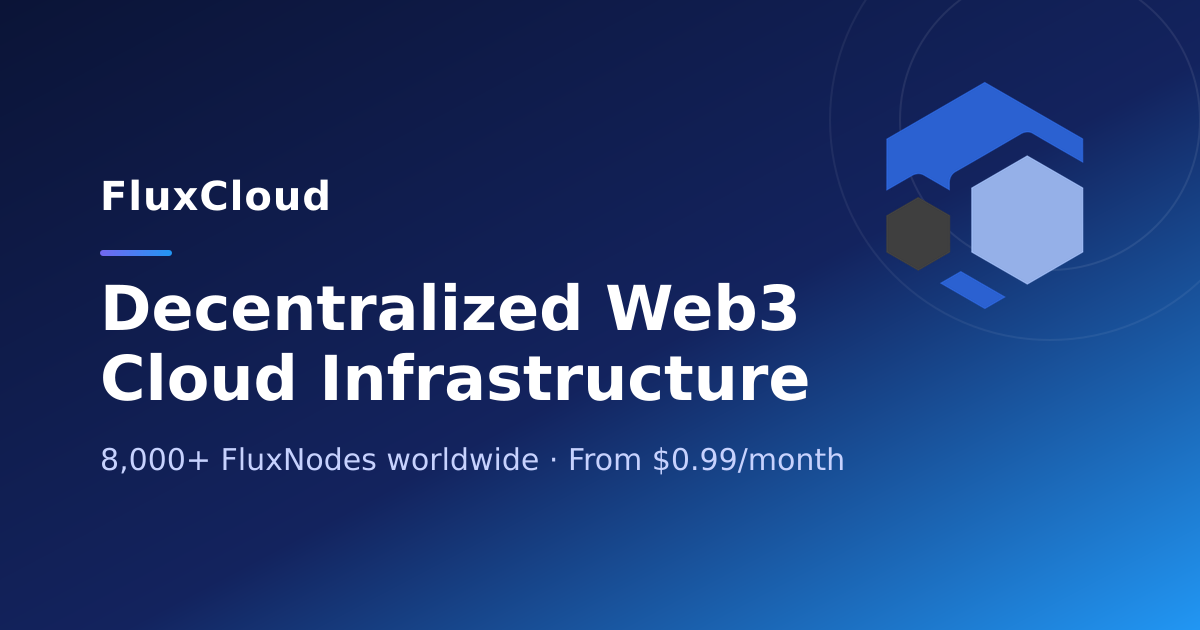
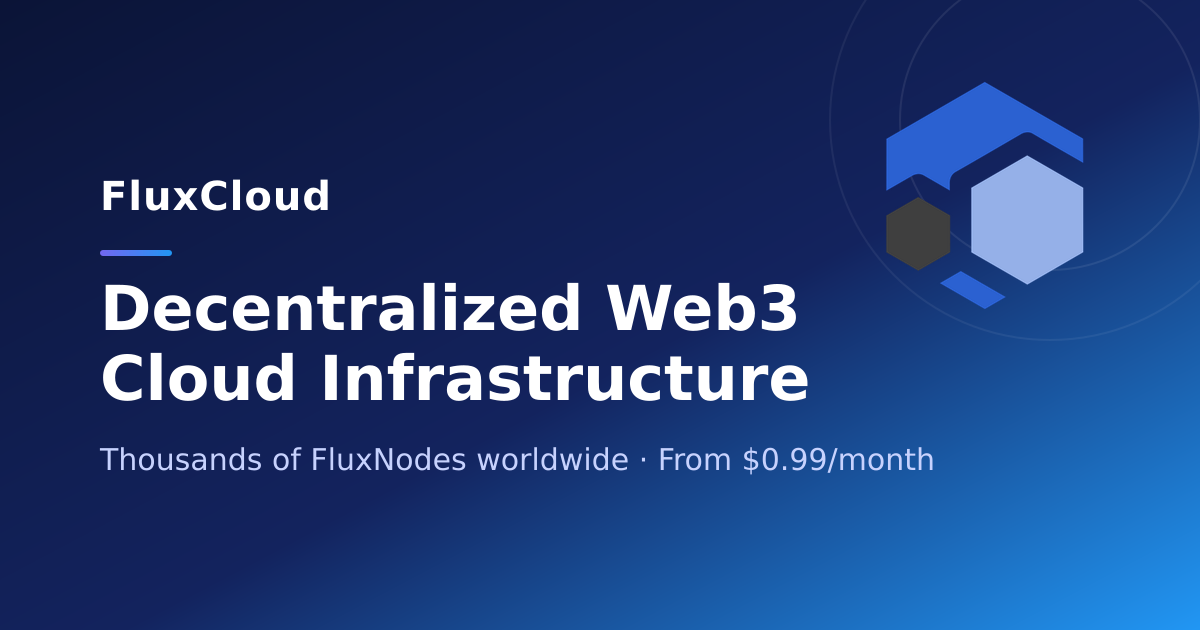
[SEO] Prerender homepage, reactive JSON-LD & evergreen network stats
- Prerender the homepage (/) — LandingServices is fully static, so crawlers
  and AI engines now receive the full hero, services and JSON-LD without JS
  (previously only the SPA shell + no-JS warning was served).
- Add a semantic <h1> + intro hero to the homepage, translated to all 22
  locales (heroTitle/heroSubtitle).
- Add homepage SoftwareApplication + Offer ($0.99) JSON-LD, scoped to /.
- Replace the fluctuating, overstated "8,000+ FluxNodes worldwide" marketing
  copy with evergreen "thousands of FluxNodes across 50+ countries" across
  index.html, llms.txt, meta descriptions and the OG image (~6.9k nodes live).
- Wire usePrerenderReady on /apps/register so the prerender waits for the
  live node/country count, plus a lightweight getfluxnodecount fast-path.
- Fix non-reactive JSON-LD on /apps/register (script: computed) so the
  FAQPage schema reflects the live count instead of frozen setup-time values.
- Lower node/country fallbacks to accurate floors (7000 / 50).

Changed region(s): [[0.0617, 0.6937, 0.7708, 0.754]]

diff --git a/index.html b/index.html
@@ -8,7 +8,7 @@
   <title>FluxCloud - Decentralized Web3 Cloud Infrastructure</title>
 
   <!-- Primary Meta Tags -->
-  <meta name="description" content="Deploy applications on FluxCloud's decentralized Web3 infrastructure. Host games, WordPress sites, and custom apps on a network of 8,000+ FluxNodes worldwide. Starting at $0.99/month." />
+  <meta name="description" content="Deploy applications on FluxCloud's decentralized Web3 infrastructure. Host games, WordPress sites, and custom apps on a global network of thousands of FluxNodes across 50+ countries. Starting at $0.99/month." />
   <meta name="keywords" content="decentralized cloud, Web3 hosting, blockchain infrastructure, FluxNodes, decentralized apps, game server hosting, WordPress hosting" />
   <meta name="author" content="Flux Network" />
   <meta name="theme-color" content="#7367F0" />
@@ -18,7 +18,7 @@
   <meta property="og:type" content="website" />
   <meta property="og:url" content="https://cloud.runonflux.com/" />
   <meta property="og:title" content="FluxCloud - Decentralized Web3 Cloud Infrastructure" />
-  <meta property="og:description" content="Deploy applications on FluxCloud's decentralized Web3 infrastructure. Host games, WordPress sites, and custom apps on a network of 8,000+ FluxNodes worldwide. Starting at $0.99/month." />
+  <meta property="og:description" content="Deploy applications on FluxCloud's decentralized Web3 infrastructure. Host games, WordPress sites, and custom apps on a global network of thousands of FluxNodes across 50+ countries. Starting at $0.99/month." />
   <meta property="og:image" content="https://cloud.runonflux.com/images/og-image.png" />
   <meta property="og:image:width" content="1200" />
   <meta property="og:image:height" content="630" />
@@ -55,7 +55,7 @@
   <meta name="twitter:card" content="summary_large_image" />
   <meta name="twitter:url" content="https://cloud.runonflux.com/" />
   <meta name="twitter:title" content="FluxCloud - Decentralized Web3 Cloud Infrastructure" />
-  <meta name="twitter:description" content="Deploy applications on FluxCloud's decentralized Web3 infrastructure. Host games, WordPress sites, and custom apps on a network of 8,000+ FluxNodes worldwide. Starting at $0.99/month." />
+  <meta name="twitter:description" content="Deploy applications on FluxCloud's decentralized Web3 infrastructure. Host games, WordPress sites, and custom apps on a global network of thousands of FluxNodes across 50+ countries. Starting at $0.99/month." />
   <meta name="twitter:image" content="https://cloud.runonflux.com/images/og-image.png" />
   <meta name="twitter:image:alt" content="FluxCloud - Decentralized Web3 Cloud Infrastructure" />
   <meta name="twitter:site" content="@RunOnFlux" />
@@ -73,9 +73,9 @@
   <link rel="canonical" href="https://cloud.runonflux.com/" />
 
   <!-- Structured data (Organization / WebSite / Service). Declared statically
-       so it is present for crawlers without executing JavaScript. The homepage
-       is intentionally not prerendered, so this must live in index.html rather
-       than being injected at runtime. -->
+       so it is present for every route from index.html before JavaScript runs.
+       The homepage is prerendered (see scripts/prerender.js), but keeping this
+       schema in index.html guarantees it survives on the live SPA shell too. -->
   <script type="application/ld+json">
   [
     {
@@ -98,7 +98,7 @@
       "@type": "WebSite",
       "name": "FluxCloud",
       "url": "https://cloud.runonflux.com",
-      "description": "Deploy applications on FluxCloud's decentralized Web3 infrastructure. Host games, WordPress sites, and custom apps on a network of 8,000+ FluxNodes worldwide. Starting at $0.99/month.",
+      "description": "Deploy applications on FluxCloud's decentralized Web3 infrastructure. Host games, WordPress sites, and custom apps on a global network of thousands of FluxNodes across 50+ countries. Starting at $0.99/month.",
       "publisher": {
         "@type": "Organization",
         "name": "Flux Network",

diff --git a/src/pages/apps/register/index.vue b/src/pages/apps/register/index.vue
@@ -148,6 +148,7 @@
 import { ref, computed, onMounted, watch } from 'vue'
 import { useI18n } from 'vue-i18n'
 import { useHead } from '@unhead/vue'
+import { usePrerenderReady } from '@/composables/useSEO'
 import Api from '@/services/ApiClient'
 import { useFluxStore } from '@/stores/flux'
 import ServerLocationsPanel from '@/components/Marketplace/Panels/ServerLocationsPanel.vue'
@@ -192,9 +193,14 @@ const fluxCloudPrice = ref('$8.99') // Default fallback price
 const fluxCloudPriceLoading = ref(true)
 
 // Network data
-const nodeCount = ref(8000) // Default fallback
-const countryCount = ref(63) // Default fallback
+const nodeCount = ref(7000) // Default fallback (replaced by live API count when available)
+const countryCount = ref(50) // Default fallback (replaced by live API count when available)
 const networkDataLoading = ref(true)
+
+// Hold the prerender snapshot until the live node/country counts have loaded
+// (or fallback values are confirmed on error/timeout), so the prerendered HTML
+// carries the real network numbers instead of the loading-state fallbacks.
+const { markReady } = usePrerenderReady()
 
 // Hero subtitle with dynamic network data
 const heroSubtitle = computed(() =>
@@ -643,9 +649,21 @@ const fetchNetworkData = async () => {
       }
     }
 
-    // Update node count from store
+    // Update node count from store, or fall back to the lightweight count
+    // endpoint when the (heavy) server-locations store has not populated yet —
+    // e.g. during prerendering — so the real live count is still captured
+    // instead of the static default.
     if (serverLocations.fluxNodeCount > 0) {
       nodeCount.value = serverLocations.fluxNodeCount
+    } else {
+      try {
+        const { data } = await Api().get('/daemon/getfluxnodecount', { timeout: 5000 })
+        if (data?.status === 'success' && data.data?.total > 0) {
+          nodeCount.value = data.data.total
+        }
+      } catch (error) {
+        console.warn('Failed to fetch live FluxNode count, using fallback:', error.message)
+      }
     }
 
     // Calculate country count from store data
@@ -744,7 +762,11 @@ useHead({
       href: 'https://cloud.runonflux.com/apps/register',
     },
   ],
-  script: [
+
+  // Wrap in a computed so @unhead tracks changes: faqSchema depends on the
+  // live nodeCount/countryCount, which resolve asynchronously after mount.
+  // A plain array would freeze JSON.stringify(...value) at setup-time fallbacks.
+  script: computed(() => [
     {
       type: 'application/ld+json',
       innerHTML: JSON.stringify(breadcrumbSchema.value),
@@ -761,7 +783,7 @@ useHead({
       type: 'application/ld+json',
       innerHTML: JSON.stringify(offerSchema.value),
     },
-  ],
+  ]),
 })
 
 onMounted(async () => {
@@ -780,6 +802,9 @@ onMounted(async () => {
     ])
   } catch (error) {
     console.error('Error loading data:', error)
+  } finally {
+    // Release the prerender snapshot once async SEO-relevant data has settled.
+    markReady()
   }
 })
 </script>

diff --git a/src/pages/dashboards/home.vue b/src/pages/dashboards/home.vue
@@ -21,13 +21,47 @@ onMounted(() => {
 
 // SEO meta tags
 const title = 'FluxCloud - Decentralized Web3 Cloud Infrastructure'
-const description = 'Deploy apps on FluxCloud\'s decentralized Web3 infrastructure. Host games, WordPress, custom apps on 8,000+ FluxNodes worldwide. From $0.99/month.'
+const description = 'Deploy apps on FluxCloud\'s decentralized Web3 infrastructure. Host games, WordPress, custom apps on thousands of FluxNodes across 50+ countries. From $0.99/month.'
 const pageUrl = 'https://cloud.runonflux.com/'
 const imageUrl = 'https://cloud.runonflux.com/images/logo.png'
 
-// Organization / WebSite / Service structured data for the homepage is declared
-// statically in index.html. The homepage is not prerendered, so the schema must
-// live in the served HTML rather than being injected here at runtime.
+// Site-wide Organization / WebSite / Service structured data is declared
+// statically in index.html so it is present on every served HTML (prerendered
+// snapshot and live SPA shell alike). The homepage-specific SoftwareApplication
+// schema below is injected here so it is scoped to '/' only and not leaked onto
+// every route — the homepage is prerendered, so the snapshot captures it.
+// No aggregateRating is emitted: ratings are never fabricated (see docs/seo.md).
+const softwareApplicationSchema = {
+  '@context': 'https://schema.org',
+  '@type': 'SoftwareApplication',
+  'name': 'FluxCloud',
+  'description': 'Decentralized Web3 cloud platform to deploy Docker apps, game servers, WordPress sites and blockchain nodes across thousands of FluxNodes in 50+ countries.',
+  'url': pageUrl,
+  'image': 'https://cloud.runonflux.com/images/og-image.png',
+  'operatingSystem': 'Web',
+  'applicationCategory': 'BusinessApplication',
+  'offers': {
+    '@type': 'Offer',
+    'price': '0.99',
+    'priceCurrency': 'USD',
+    'availability': 'https://schema.org/InStock',
+    'url': 'https://cloud.runonflux.com/cost-calculator',
+    'description': 'Application hosting from $0.99/month, pay-as-you-go pricing.',
+  },
+  'featureList': [
+    'Docker application deployment',
+    'Git-based deployment (Flux Orbit)',
+    'Game server hosting',
+    'WordPress hosting',
+    'Blockchain node hosting',
+    'Decentralized IPFS file storage (FluxDrive)',
+  ],
+  'provider': {
+    '@type': 'Organization',
+    'name': 'Flux Network',
+    'url': 'https://runonflux.com',
+  },
+}
 
 useHead({
   title,
@@ -54,6 +88,12 @@ useHead({
   ],
   link: [
     { rel: 'canonical', href: pageUrl },
+  ],
+  script: [
+    {
+      type: 'application/ld+json',
+      innerHTML: JSON.stringify(softwareApplicationSchema),
+    },
   ],
 })
 

diff --git a/src/components/LandingServices.vue b/src/components/LandingServices.vue
@@ -1,5 +1,15 @@
 <template>
   <div class="landing-page">
+    <!--
+      SEO/GEO hero: single semantic <h1> with intent keywords. Static i18n
+      content so it is captured by the prerender snapshot and visible to
+      crawlers that do not execute JavaScript. 
+    -->
+    <header class="landing-hero">
+      <h1 class="hero-heading">{{ t('landingServices.heroTitle') }}</h1>
+      <p class="hero-subheading">{{ t('landingServices.heroSubtitle') }}</p>
+    </header>
+
     <!-- Features Grid Section -->
     <section class="features-section">
       <div class="container">
@@ -159,6 +169,30 @@ const exploreBanner = banner => {
   width: 100%;
   overflow-x: hidden;
   margin-top: -0.5rem;
+}
+
+/* SEO/GEO hero */
+.landing-hero {
+  text-align: center;
+  padding: 1.5rem 1rem 0.5rem;
+  max-width: 900px;
+  margin: 0 auto;
+}
+
+.hero-heading {
+  font-size: clamp(1.9rem, 4.5vw, 2.75rem);
+  font-weight: 800;
+  line-height: 1.2;
+  color: rgb(var(--v-theme-on-background));
+  margin-bottom: 0.75rem;
+}
+
+.hero-subheading {
+  font-size: clamp(1rem, 2vw, 1.15rem);
+  line-height: 1.6;
+  color: rgba(var(--v-theme-on-background), 0.75);
+  margin: 0 auto;
+  max-width: 720px;
 }
 
 /* Features Section */

diff --git a/src/pages/marketplace/index.vue b/src/pages/marketplace/index.vue
@@ -113,7 +113,7 @@ const {
 
 const pageUrl = 'https://cloud.runonflux.com/marketplace'
 const title = 'Marketplace - Deploy Decentralized Apps on Flux | FluxCloud'
-const description = 'Deploy decentralized apps on Flux\'s Web3 cloud. Docker containers, web apps, APIs on 8,000+ FluxNodes worldwide. One-click deployment, transparent pricing.'
+const description = 'Deploy decentralized apps on Flux\'s Web3 cloud. Docker containers, web apps, APIs on thousands of FluxNodes across 50+ countries. One-click deployment, transparent pricing.'
 const imageUrl = 'https://cloud.runonflux.com/images/logo.png'
 
 // Generate structured data
@@ -167,7 +167,7 @@ watch(loading, isLoading => {
 const isInitialLoading = ref(true)
 
 // Network data
-const nodeCount = ref(8000) // Default fallback
+const nodeCount = ref(7000) // Default fallback (replaced by live API count when available)
 const networkDataLoading = ref(true)
 
 // Hero subtitle with dynamic node count

diff --git a/scripts/generate-og-image.js b/scripts/generate-og-image.js
@@ -50,7 +50,7 @@ const background = Buffer.from(`
   <text x="100" y="210" font-family="DejaVu Sans, Arial, sans-serif" font-size="40" font-weight="700" fill="#ffffff" letter-spacing="1">FluxCloud</text>
   <text x="100" y="330" font-family="DejaVu Sans, Arial, sans-serif" font-size="62" font-weight="700" fill="#ffffff">Decentralized Web3</text>
   <text x="100" y="400" font-family="DejaVu Sans, Arial, sans-serif" font-size="62" font-weight="700" fill="#ffffff">Cloud Infrastructure</text>
-  <text x="100" y="470" font-family="DejaVu Sans, Arial, sans-serif" font-size="30" font-weight="400" fill="#c7d2fe">8,000+ FluxNodes worldwide  ·  From $0.99/month</text>
+  <text x="100" y="470" font-family="DejaVu Sans, Arial, sans-serif" font-size="30" font-weight="400" fill="#c7d2fe">Thousands of FluxNodes worldwide  ·  From $0.99/month</text>
 </svg>`)
 
 async function main() {

diff --git a/src/pages/dashboards/locations.vue b/src/pages/dashboards/locations.vue
@@ -170,7 +170,7 @@ const { t } = useI18n()
 // SEO configuration
 useSEO({
   title: 'Flux Node Locations - Global Network Map | FluxCloud',
-  description: 'Explore the global distribution of 8,000+ FluxNodes. Interactive map showing node locations across 70+ countries. View network decentralization and geographic spread of Flux infrastructure worldwide.',
+  description: 'Explore the global distribution of thousands of FluxNodes. Interactive map showing node locations across 50+ countries. View network decentralization and geographic spread of Flux infrastructure worldwide.',
   url: 'https://cloud.runonflux.com/dashboards/locations',
   keywords: 'flux node map, node locations, global network, geographic distribution, flux nodes worldwide, decentralized network map, node distribution, blockchain network map',
   structuredData: [

diff --git a/src/pages/dashboards/overview.vue b/src/pages/dashboards/overview.vue
@@ -479,7 +479,7 @@ const { t } = useI18n()
 
 // SEO meta tags
 const title = 'Flux Network Overview - Real-Time Node Statistics | FluxCloud'
-const description = 'View real-time statistics of the Flux decentralized network. Track 8,000+ active FluxNodes across Cumulus, Nimbus, and Stratus tiers. Monitor network health, supply, and node distribution worldwide.'
+const description = 'View real-time statistics of the Flux decentralized network. Track thousands of active FluxNodes across Cumulus, Nimbus, and Stratus tiers. Monitor network health, supply, and node distribution worldwide.'
 const pageUrl = 'https://cloud.runonflux.com/dashboards/overview'
 const imageUrl = 'https://cloud.runonflux.com/images/logo.png'
 

diff --git a/scripts/prerender.js b/scripts/prerender.js
@@ -42,10 +42,9 @@ function sleep(ms) {
 }
 
 // Fallback static routes (used if prerender-routes.json doesn't exist)
-// Note: Homepage '/' is intentionally excluded - it has static SEO meta tags in index.html
-// and prerendering it can cause issues with components like the cookie consent dialog
 const FALLBACK_ROUTES = Object.freeze([
-  // Main landing pages (excluding homepage)
+  // Main landing pages
+  '/', // Homepage (LandingServices) — fully static i18n content, safe to prerender
   '/marketplace',
   '/marketplace/wordpress',
   '/marketplace/games',

diff --git a/scripts/fetch-prerender-routes.js b/scripts/fetch-prerender-routes.js
@@ -27,9 +27,8 @@ const GAMES_CATEGORY_UUIDS = [
 ]
 
 // Static routes that should always be pre-rendered
-// Note: Homepage '/' is excluded - it has static SEO meta tags in index.html
-// and prerendering it can cause hydration issues with interactive components
 const STATIC_ROUTES = [
+  '/', // Homepage (LandingServices) — fully static i18n content, safe to prerender
   '/marketplace',
   '/marketplace/wordpress',
   '/marketplace/games',

diff --git a/src/pages/marketplace/[id].vue b/src/pages/marketplace/[id].vue
@@ -446,8 +446,8 @@ const showImageViewer = computed({
 })
 
 // Network data
-const nodeCount = ref(8000) // Default fallback
-const countryCount = ref(63) // Default fallback
+const nodeCount = ref(7000) // Default fallback (replaced by live API count when available)
+const countryCount = ref(50) // Default fallback (replaced by live API count when available)
 
 // Server Locations Panel Configuration
 const serverLocationsPanel = {

diff --git a/src/pages/marketplace/games/[name].vue b/src/pages/marketplace/games/[name].vue
@@ -136,7 +136,7 @@ const selectedApp = ref(null)
 const selectedConfig = ref(null)
 
 // Network data
-const nodeCount = ref(8000) // Default fallback
+const nodeCount = ref(7000) // Default fallback (replaced by live API count when available)
 
 // Parse game icon to handle asset:// protocol
 const gameIcon = computed(() => parseLandingImage(game.value?.icon))
